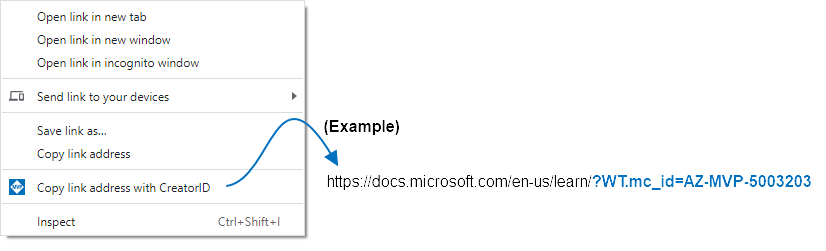
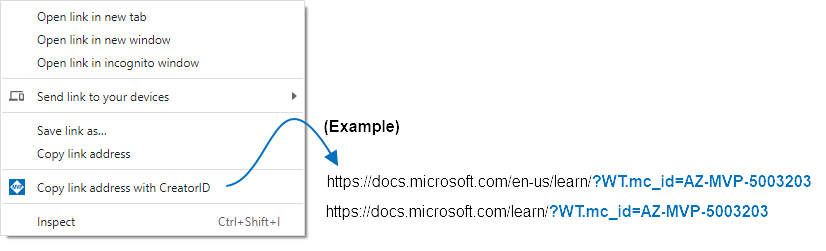
Update to readme for "Make English URL language neutral"
Update to readme and screenshots to match the "Make English URL language neutral" function from PR22

Changed region(s): [[0.3935, 0.8088, 0.9383, 0.8924]]

diff --git a/README.md b/README.md
@@ -5,12 +5,14 @@
 
 This extension adds a ***Copy link address with CreatorID*** item to your Browser on suitable sites.
 It also ensures that the CreatorID is correctly added to the URL, so you don't have to worry about whether the URL already contains a query.
+It provides the option to make English URL "language neutral" by removing "en-us" - this will enable most Microsoft sites to detect the preferred language of the user and serve the content in that language.
 
 ![Image of the context menue](./assets/browser_copy_link_example.png)
 
 
 ## Options
 
-After you have installed the extension, please specify your CreatorIDs within the extension options:
+After you have installed the extension, please specify your CreatorIDs within the extension options. 
+You can also check "Make English URLs language neutral" to make your links more friendly to a global audience.
 
 ![Extension Options](./assets/screenshot_options.png)
